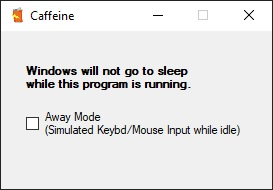
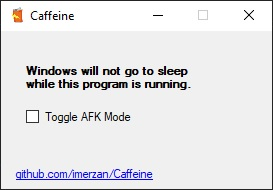
Code Refresh

Changed region(s): [[0.0879, 0.5789, 0.8791, 0.7105], [0.0586, 0.8684, 0.5568, 0.9474]]

diff --git a/src/Caffeine.Designer.cs b/src/Caffeine.Designer.cs
@@ -37,7 +37,9 @@
             this.toolStripMenuItem2 = new System.Windows.Forms.ToolStripSeparator();
             this.exitToolStripMenuItem = new System.Windows.Forms.ToolStripMenuItem();
             this.label1 = new System.Windows.Forms.Label();
-            this.checkbox_AwayMode = new System.Windows.Forms.CheckBox();
+            this.checkbox_AfkMode = new System.Windows.Forms.CheckBox();
+            this.CheckboxTooltip1 = new System.Windows.Forms.ToolTip(this.components);
+            this.linkLabel1 = new System.Windows.Forms.LinkLabel();
             this.contextMenuStrip1.SuspendLayout();
             this.SuspendLayout();
             // 
@@ -93,28 +95,44 @@
             this.label1.TabIndex = 1;
             this.label1.Text = "Windows will not go to sleep \r\nwhile this program is running.";
             // 
-            // checkbox_AwayMode
+            // checkbox_AfkMode
             // 
-            this.checkbox_AwayMode.AutoSize = true;
-            this.checkbox_AwayMode.Location = new System.Drawing.Point(25, 78);
-            this.checkbox_AwayMode.Name = "checkbox_AwayMode";
-            this.checkbox_AwayMode.Size = new System.Drawing.Size(221, 30);
-            this.checkbox_AwayMode.TabIndex = 2;
-            this.checkbox_AwayMode.Text = "Away Mode\r\n(Simulated Keybd/Mouse Input while idle)";
-            this.checkbox_AwayMode.UseVisualStyleBackColor = true;
-            this.checkbox_AwayMode.CheckedChanged += new System.EventHandler(this.checkbox_AwayMode_CheckedChanged);
+            this.checkbox_AfkMode.AutoSize = true;
+            this.checkbox_AfkMode.Location = new System.Drawing.Point(25, 78);
+            this.checkbox_AfkMode.Name = "checkbox_AfkMode";
+            this.checkbox_AfkMode.Size = new System.Drawing.Size(112, 17);
+            this.checkbox_AfkMode.TabIndex = 2;
+            this.checkbox_AfkMode.Text = "Toggle AFK Mode";
+            this.checkbox_AfkMode.UseVisualStyleBackColor = true;
+            this.checkbox_AfkMode.CheckedChanged += new System.EventHandler(this.checkbox_AwayMode_CheckedChanged);
             // 
-            // Form1
+            // CheckboxTooltip1
+            // 
+            this.CheckboxTooltip1.ShowAlways = true;
+            // 
+            // linkLabel1
+            // 
+            this.linkLabel1.AutoSize = true;
+            this.linkLabel1.Location = new System.Drawing.Point(12, 136);
+            this.linkLabel1.Name = "linkLabel1";
+            this.linkLabel1.Size = new System.Drawing.Size(144, 13);
+            this.linkLabel1.TabIndex = 3;
+            this.linkLabel1.TabStop = true;
+            this.linkLabel1.Text = "github.com/imerzan/Caffeine";
+            this.linkLabel1.LinkClicked += new System.Windows.Forms.LinkLabelLinkClickedEventHandler(this.linkLabel1_LinkClicked);
+            // 
+            // Caffeine
             // 
             this.AutoScaleDimensions = new System.Drawing.SizeF(6F, 13F);
             this.AutoScaleMode = System.Windows.Forms.AutoScaleMode.Font;
             this.ClientSize = new System.Drawing.Size(271, 158);
-            this.Controls.Add(this.checkbox_AwayMode);
+            this.Controls.Add(this.linkLabel1);
+            this.Controls.Add(this.checkbox_AfkMode);
             this.Controls.Add(this.label1);
             this.FormBorderStyle = System.Windows.Forms.FormBorderStyle.FixedSingle;
             this.Icon = ((System.Drawing.Icon)(resources.GetObject("$this.Icon")));
             this.MaximizeBox = false;
-            this.Name = "Form1";
+            this.Name = "Caffeine";
             this.Text = "Caffeine";
             this.contextMenuStrip1.ResumeLayout(false);
             this.ResumeLayout(false);
@@ -129,8 +147,10 @@
         private System.Windows.Forms.ToolStripSeparator toolStripMenuItem2;
         private System.Windows.Forms.ToolStripMenuItem exitToolStripMenuItem;
         private System.Windows.Forms.Label label1;
-        private System.Windows.Forms.CheckBox checkbox_AwayMode;
+        private System.Windows.Forms.CheckBox checkbox_AfkMode;
         private System.Windows.Forms.ToolStripMenuItem awayModeToolStripMenuItem;
+        private System.Windows.Forms.ToolTip CheckboxTooltip1;
+        private System.Windows.Forms.LinkLabel linkLabel1;
     }
 }
 

diff --git a/src/AfkMode.cs b/src/AfkMode.cs
@@ -7,15 +7,15 @@ using System.Threading.Tasks;
 
 namespace Caffeine
 {
-    public class AwayMode
+    public class AfkMode
     {
-        private bool Enabled { get; set; }
+        private bool Enabled;
         private LASTINPUTINFO LastInput;
-        private Rectangle ScreenBounds { get; set; }
-        private System.Timers.Timer DelayTimer { get; set; }
-        private Random Rng { get; set; }
+        private Rectangle ScreenBounds;
+        private System.Timers.Timer DelayTimer;
+        private Random Rng;
 
-        public AwayMode() // Constructor, Enable Away Mode
+        public AfkMode() // Constructor, Enable AFK Mode
         {
             this.Enabled = true;
             this.Rng = new Random(); // Random number generator
@@ -27,25 +27,25 @@ namespace Caffeine
         private async void DelayTimer_Elapsed(object sender, ElapsedEventArgs e)
         {
             if (!this.Enabled) return;
-            WinAPI.GetLastInputInfo(ref this.LastInput);
-            uint idletime = (WinAPI.GetTickCount() - this.LastInput.dwTime); // Check to see if user is idle
+            Win32API.GetLastInputInfo(ref this.LastInput);
+            uint idletime = (Win32API.GetTickCount() - this.LastInput.dwTime); // Check to see if user is idle
             if (idletime > this.DelayTimer.Interval) // User is idle, proceed with simulating keyboard/mouse input
             {
-                WinAPI.SendKey((byte)this.Rng.Next(65, 90)); // Key Press, use A-Z randomly, converts integer vkey value to byte
-                WinAPI.SetCursorPos(this.Rng.Next(0, this.ScreenBounds.Width), this.Rng.Next(0, this.ScreenBounds.Height)); // Move mouse to random area of primary screen
-                await Task.Delay(500);
+                Win32API.SendKey((byte)this.Rng.Next(65, 90)); // Key Press, use A-Z randomly, converts integer vkey value to byte
+                Win32API.SetCursorPos(this.Rng.Next(0, this.ScreenBounds.Width), this.Rng.Next(0, this.ScreenBounds.Height)); // Move mouse to random area of primary screen
+                await Task.Delay(500); // 500 ms delay before resetting timer
             }
             this.ResetTimer();
         }
-        private async void ResetTimer()
+        private void ResetTimer()
         {
             if (!this.Enabled) return;
-            this.DelayTimer = new System.Timers.Timer(Rng.Next(55000, 65000)); // 55 - 65 sec
+            this.DelayTimer = new System.Timers.Timer(Rng.Next(55000, 65000)); // 55 - 65 sec, random
             this.DelayTimer.AutoReset = false;
             this.DelayTimer.Elapsed += DelayTimer_Elapsed; // Set elapsed event method
             this.DelayTimer.Start(); // start timer
         }
-        public async void Disable() // Disables Away Mode
+        public void Disable() // Disables AFK Mode
         {
             this.Enabled = false;
             this.DelayTimer?.Stop();

diff --git a/src/Caffeine.cs b/src/Caffeine.cs
@@ -5,24 +5,25 @@ namespace Caffeine
 {
     public partial class Caffeine : Form
     {
-        private AwayMode Worker { get; set; }
+        private AfkMode afkMode;
         public Caffeine() // GUI Constructor
         {
             InitializeComponent();
             this.notifyIcon1.ContextMenuStrip = this.contextMenuStrip1; // Set Tray Icon
             this.Resize += Window_Resize; // Minimize Event Handler
-            WinAPI.PreventSleep();  // Prevent Windows from going to sleep while the main thread is active
+            this.CheckboxTooltip1.SetToolTip(checkbox_AfkMode, "Simulated Keypress(a-z)/MouseMove Input every 55 - 65 sec while idle.\nDoes nothing if system is being actively used."); // Set tooltip
+            Win32API.PreventSleep();  // Prevent Windows from going to sleep while the main thread is active
         }
-        private void checkbox_AwayMode_CheckedChanged(object sender, EventArgs e) // Toggle Away Mode
+        private void checkbox_AwayMode_CheckedChanged(object sender, EventArgs e) // Toggle AFK Mode
         {
-            if (this.checkbox_AwayMode.Checked) // Away Mode Enabled
+            if (this.checkbox_AfkMode.Checked) // AFK Mode Enabled
             {
-                this.Worker = new AwayMode();
+                this.afkMode = new AfkMode();
                 this.awayModeToolStripMenuItem.Checked = true;
             }
-            else // Away Mode Disabled
+            else // AFK Mode Disabled
             {
-                Worker?.Disable();
+                this.afkMode?.Disable();
                 this.awayModeToolStripMenuItem.Checked = false;
             }
         }
@@ -41,9 +42,9 @@ namespace Caffeine
         {
             this.GuiShow(true);
         }
-        private void awayModeToolStripMenuItem_Click(object sender, EventArgs e) // Away Mode Menu Item, Toggle Away Mode
+        private void awayModeToolStripMenuItem_Click(object sender, EventArgs e) // AFK Mode Menu Item, Toggle Away Mode
         {
-            this.checkbox_AwayMode.Checked = !this.checkbox_AwayMode.Checked; // Invokes checkbox_AwayMode_CheckedChanged()
+            this.checkbox_AfkMode.Checked = !this.checkbox_AfkMode.Checked; // Invokes checkbox_AwayMode_CheckedChanged()
         }
 
         private void exitToolStripMenuItem_Click(object sender, EventArgs e) // Exit Menu Item
@@ -65,6 +66,10 @@ namespace Caffeine
                 this.Hide();
                 this.notifyIcon1.Visible = true;
             }
+        }
+        private void linkLabel1_LinkClicked(object sender, LinkLabelLinkClickedEventArgs e)
+        {
+            System.Diagnostics.Process.Start("https://github.com/imerzan/Caffeine"); // Navigate to page when clicked
         }
     }
 }

diff --git a/Properties/Settings.Designer.cs b/Properties/Settings.Designer.cs
@@ -8,21 +8,17 @@
 // </auto-generated>
 //------------------------------------------------------------------------------
 
-namespace Caffeine.Properties
-{
-
-
+namespace Caffeine.Properties {
+    
+    
     [global::System.Runtime.CompilerServices.CompilerGeneratedAttribute()]
-    [global::System.CodeDom.Compiler.GeneratedCodeAttribute("Microsoft.VisualStudio.Editors.SettingsDesigner.SettingsSingleFileGenerator", "11.0.0.0")]
-    internal sealed partial class Settings : global::System.Configuration.ApplicationSettingsBase
-    {
-
+    [global::System.CodeDom.Compiler.GeneratedCodeAttribute("Microsoft.VisualStudio.Editors.SettingsDesigner.SettingsSingleFileGenerator", "16.8.1.0")]
+    internal sealed partial class Settings : global::System.Configuration.ApplicationSettingsBase {
+        
         private static Settings defaultInstance = ((Settings)(global::System.Configuration.ApplicationSettingsBase.Synchronized(new Settings())));
-
-        public static Settings Default
-        {
-            get
-            {
+        
+        public static Settings Default {
+            get {
                 return defaultInstance;
             }
         }

diff --git a/src/Win32API.cs b/src/Win32API.cs
@@ -3,7 +3,7 @@ using System.Runtime.InteropServices;
 
 namespace Caffeine
 {
-    internal static class WinAPI
+    internal static class Win32API
     {
         // Constants
         private const uint ES_CONTINUOUS = 0x80000000;
@@ -27,7 +27,7 @@ namespace Caffeine
         [DllImport("user32.dll")]
         private static extern int GetSystemMetrics(SystemMetric smIndex);
 
-        // Private Methods
+        // Private Wrapper Methods
         private static int CalculateAbsoluteCoordinateX(int x)
         {
             return (x * 65536) / GetSystemMetrics(SystemMetric.SM_CXSCREEN);
@@ -38,7 +38,7 @@ namespace Caffeine
             return (y * 65536) / GetSystemMetrics(SystemMetric.SM_CYSCREEN);
         }
 
-        // Public Methods
+        // Public Wrapper Methods
         public static void PreventSleep()
         {
             SetThreadExecutionState(ES_CONTINUOUS | ES_SYSTEM_REQUIRED); // Prevent system sleep

diff --git a/src/Program.cs b/src/Program.cs
@@ -16,7 +16,11 @@ namespace Caffeine
         {
             bool createdNew;
             mutex = new Mutex(true, "eb06a900-686a-45a0-b2ee-30b8a8a0981a", out createdNew); // Allow only one instance to run
-            if (!createdNew) return;
+            if (!createdNew)
+            {
+                MessageBox.Show("Caffeine is already running!", WindowTitle, MessageBoxButtons.OK, MessageBoxIcon.Exclamation);
+                return;
+            }
             else
             {
                 Application.EnableVisualStyles();

diff --git a/README.md b/README.md
@@ -5,5 +5,5 @@ Windows .NET application to prevent computer from going to sleep, and prevents "
 ## Information:
 - Can minimize to system tray.
 - Prevents Windows from going to sleep while the program is running.
-- Enabling away mode will start a repeating timer for 55-65 seconds (random). If no input is received during this period of time, Caffeine will simulate a single random keypress (A-Z), and move the mouse cursor to a random area on the primary monitor.
+- Enabling afk mode will start a repeating timer for 55-65 seconds (random). If no input is received during this period of time, Caffeine will simulate a single random keypress (A-Z), and move the mouse cursor to a random area on the primary monitor.
 - Perfect to prevent yourself from going "Idle" or "Away" in applications like Teams/Skype/Slack.
